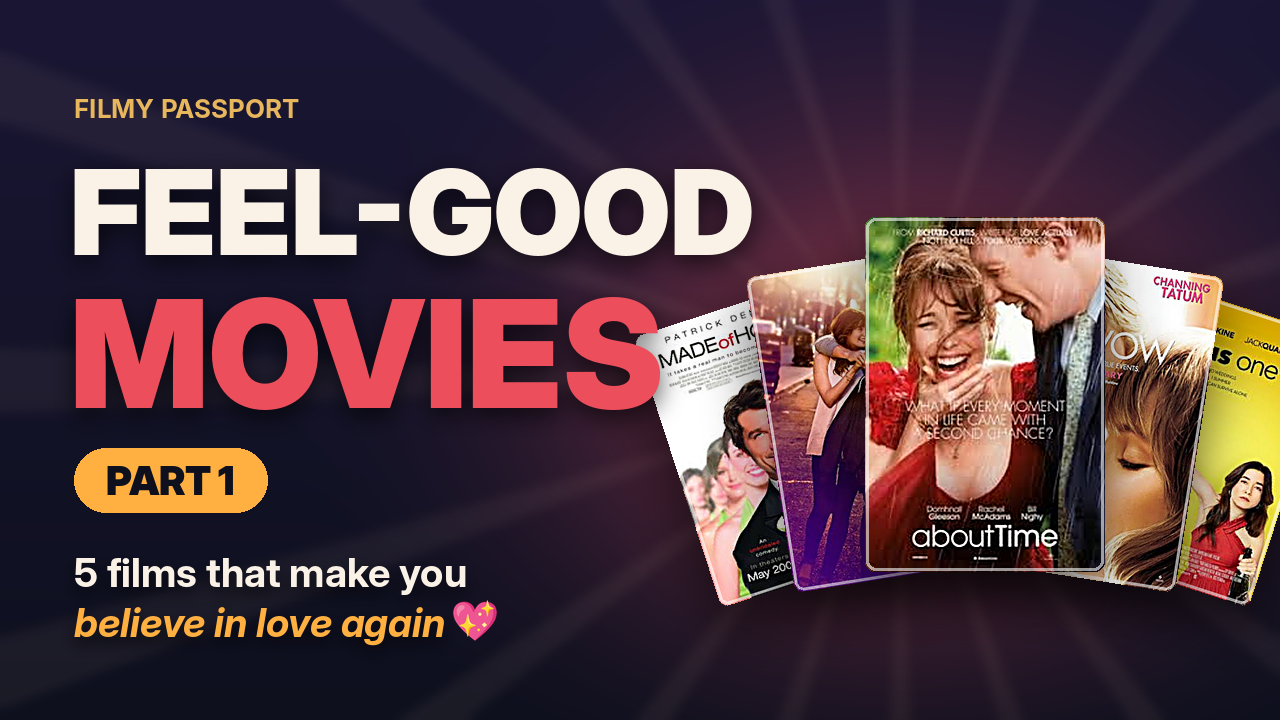
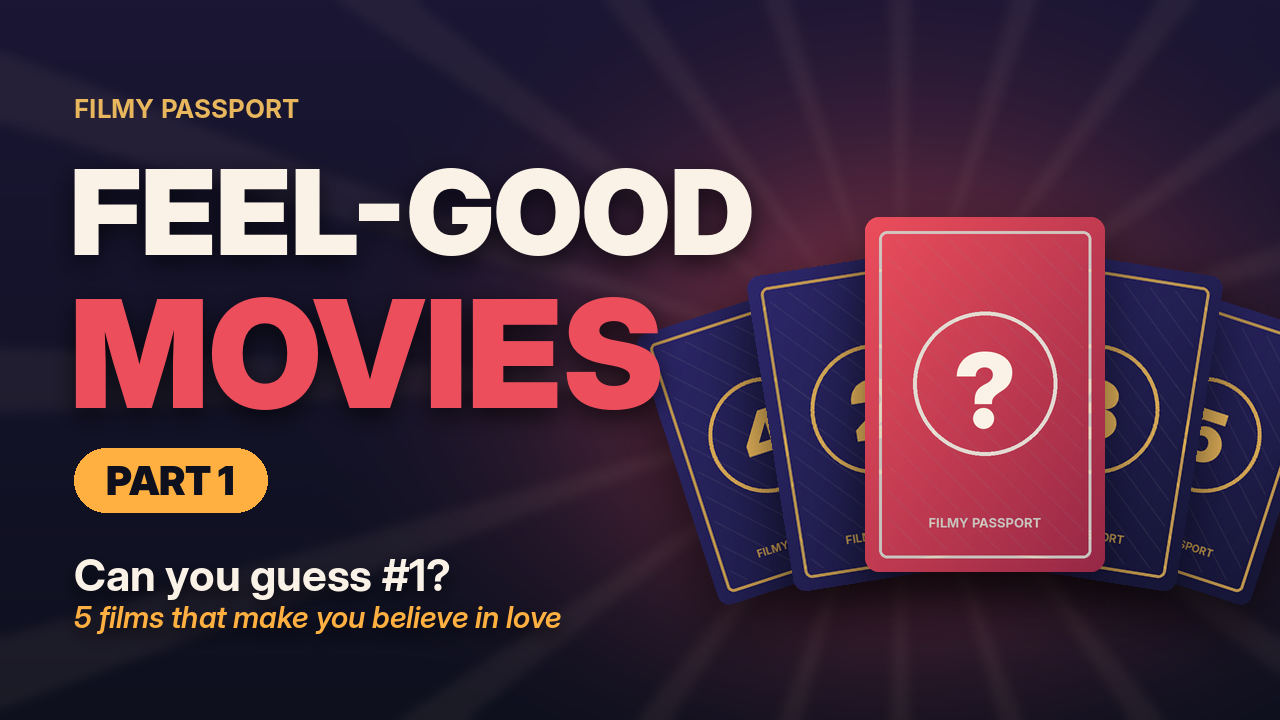
Thumbnails: replace movie posters with face-down mystery cards
Claude-Session: https://claude.ai/code/session_01HaymWABFDdtcW3zyMJwaaR

Changed region(s): [[0.5, 0.275, 1.0, 0.8556], [0.0625, 0.7639, 0.4375, 0.9167]]

diff --git a/filmy-passport/scripts/make_thumbnail.py b/filmy-passport/scripts/make_thumbnail.py
@@ -48,6 +48,40 @@ def card(key, w, h):
     return p
 
 
+def card_back(label, w, h, hero=False):
+    """Face-down mystery card: navy back, gold frame, rank number (or '?')."""
+    S = 2
+    W2, H2 = w * S, h * S
+    r = int(W2 * 0.06)
+    im = Image.new("RGBA", (W2, H2), (0, 0, 0, 0))
+    y, x = np.mgrid[0:H2, 0:W2]
+    t = ((x / W2 + y / H2) / 2)[..., None]
+    top, bot = (np.array((46, 40, 108)), np.array((22, 22, 54))) if not hero else (np.array((236, 78, 92)), np.array((150, 40, 70)))
+    body = Image.fromarray((top * (1 - t) + bot * t).astype(np.uint8)).convert("RGBA")
+    m = Image.new("L", (W2, H2), 0)
+    ImageDraw.Draw(m).rounded_rectangle((0, 0, W2 - 1, H2 - 1), r, fill=255)
+    im.paste(body, (0, 0), m)
+    d = ImageDraw.Draw(im)
+    gold = CREAM if hero else GOLD
+    ins = int(W2 * 0.06)
+    d.rounded_rectangle((ins, ins, W2 - ins, H2 - ins), int(r * 0.6), outline=gold + (200,), width=3 * S)
+    # subtle diagonal pattern
+    pat = Image.new("RGBA", (W2, H2), (0, 0, 0, 0))
+    pd = ImageDraw.Draw(pat)
+    for k in range(-H2, W2, 26 * S):
+        pd.line((k, 0, k + H2, H2), fill=(255, 255, 255, 14), width=2 * S)
+    pm = Image.new("L", (W2, H2), 0)
+    ImageDraw.Draw(pm).rounded_rectangle((ins + 8 * S, ins + 8 * S, W2 - ins - 8 * S, H2 - ins - 8 * S), int(r * 0.5), fill=255)
+    im.paste(pat, (0, 0), Image.composite(pat.getchannel("A"), Image.new("L", (W2, H2), 0), pm))
+    cx, cy = W2 / 2, H2 * 0.47
+    cr = W2 * 0.3
+    d.ellipse((cx - cr, cy - cr, cx + cr, cy + cr), outline=gold + (230,), width=4 * S)
+    f = font("InterDisplay-Black", int(cr * (1.45 if label == "?" else 1.25)))
+    d.text((cx, cy + (6 * S if label == "?" else 0)), label, font=f, fill=gold, anchor="mm")
+    d.text((cx, H2 * 0.86), "FILMY PASSPORT", font=font("Inter-Bold", int(W2 * 0.055)), fill=gold + (200,), anchor="mm")
+    return im.resize((w, h), Image.LANCZOS)
+
+
 def drop_shadow(img, blur=26, op=0.6, off=(0, 22)):
     pad = blur * 3
     sh = Image.new("RGBA", (img.width + 2 * pad, img.height + 2 * pad), (0, 0, 0, 0))
@@ -81,11 +115,11 @@ def fan(base, centre, cw, ch, spread, tilt, lift):
     """Five posters fanned like playing cards, #1 (About Time) on top in the middle."""
     order = [0, 4, 1, 3, 2]  # draw outer first; middle slot gets the best-rated
     slots = {0: -2, 1: -1, 2: 0, 3: 1, 4: 2}
-    keys = ["made_of_honor", "love_rosie", "about_time", "the_vow", "plus_one"]  # left -> right
+    keys = ["4", "2", "?", "3", "5"]  # left -> right; the #1 stays a mystery
     for i in [0, 4, 1, 3, 2]:
         k = slots[i]
         scale = 1.0 if k == 0 else (0.9 if abs(k) == 1 else 0.8)
-        c = card(keys[i], int(cw * scale), int(ch * scale)).rotate(-k * tilt, expand=True, resample=Image.BICUBIC)
+        c = card_back(keys[i], int(cw * scale), int(ch * scale), hero=(k == 0)).rotate(-k * tilt, expand=True, resample=Image.BICUBIC)
         x = centre[0] + k * spread
         y = centre[1] + abs(k) * lift
         sh, pad = drop_shadow(c)
@@ -127,8 +161,8 @@ def vertical():
     fan(im, (W / 2, 1190), 420, 622, 180, 9, 46)
     heart = emoji("💖", 96)
     im.alpha_composite(heart, (int(W / 2 + 250), 905))
-    text_shadow(im, (W / 2, 1590), "5 films that make you", font("InterDisplay-Bold", 62), CREAM)
-    text_shadow(im, (W / 2, 1668), "believe in love again", font("InterDisplay-BoldItalic", 62), SAFFRON)
+    text_shadow(im, (W / 2, 1590), "Can you guess #1?", font("InterDisplay-Bold", 66), CREAM)
+    text_shadow(im, (W / 2, 1672), "5 films that make you believe in love", font("InterDisplay-SemiBoldItalic", 44), SAFFRON)
     out = os.path.join(HERE, "thumbnail_feel_good_part1_vertical.png")
     im.convert("RGB").save(out)
     return out
@@ -147,9 +181,8 @@ def landscape():
     w = d.textlength("PART 1", font=f) + 64
     d.rounded_rectangle((x0 + 4, 448, x0 + 4 + w, 512), 32, fill=SAFFRON)
     d.text((x0 + 4 + w / 2, 480), "PART 1", font=f, fill=INK, anchor="mm")
-    text_shadow(im, (x0 + 4, 548), "5 films that make you", font("InterDisplay-Bold", 40), CREAM, anchor="la", blur=8)
-    text_shadow(im, (x0 + 4, 598), "believe in love again", font("InterDisplay-BoldItalic", 40), SAFFRON, anchor="la", blur=8)
-    im.alpha_composite(emoji("💖", 44), (int(x0 + 4 + ImageDraw.Draw(im).textlength("believe in love again ", font=font("InterDisplay-BoldItalic", 40))), 600))
+    text_shadow(im, (x0 + 4, 548), "Can you guess #1?", font("InterDisplay-Bold", 44), CREAM, anchor="la", blur=8)
+    text_shadow(im, (x0 + 4, 598), "5 films that make you believe in love", font("InterDisplay-SemiBoldItalic", 30), SAFFRON, anchor="la", blur=8)
     out = os.path.join(HERE, "thumbnail_feel_good_part1_16x9.png")
     im.convert("RGB").save(out)
     return out
